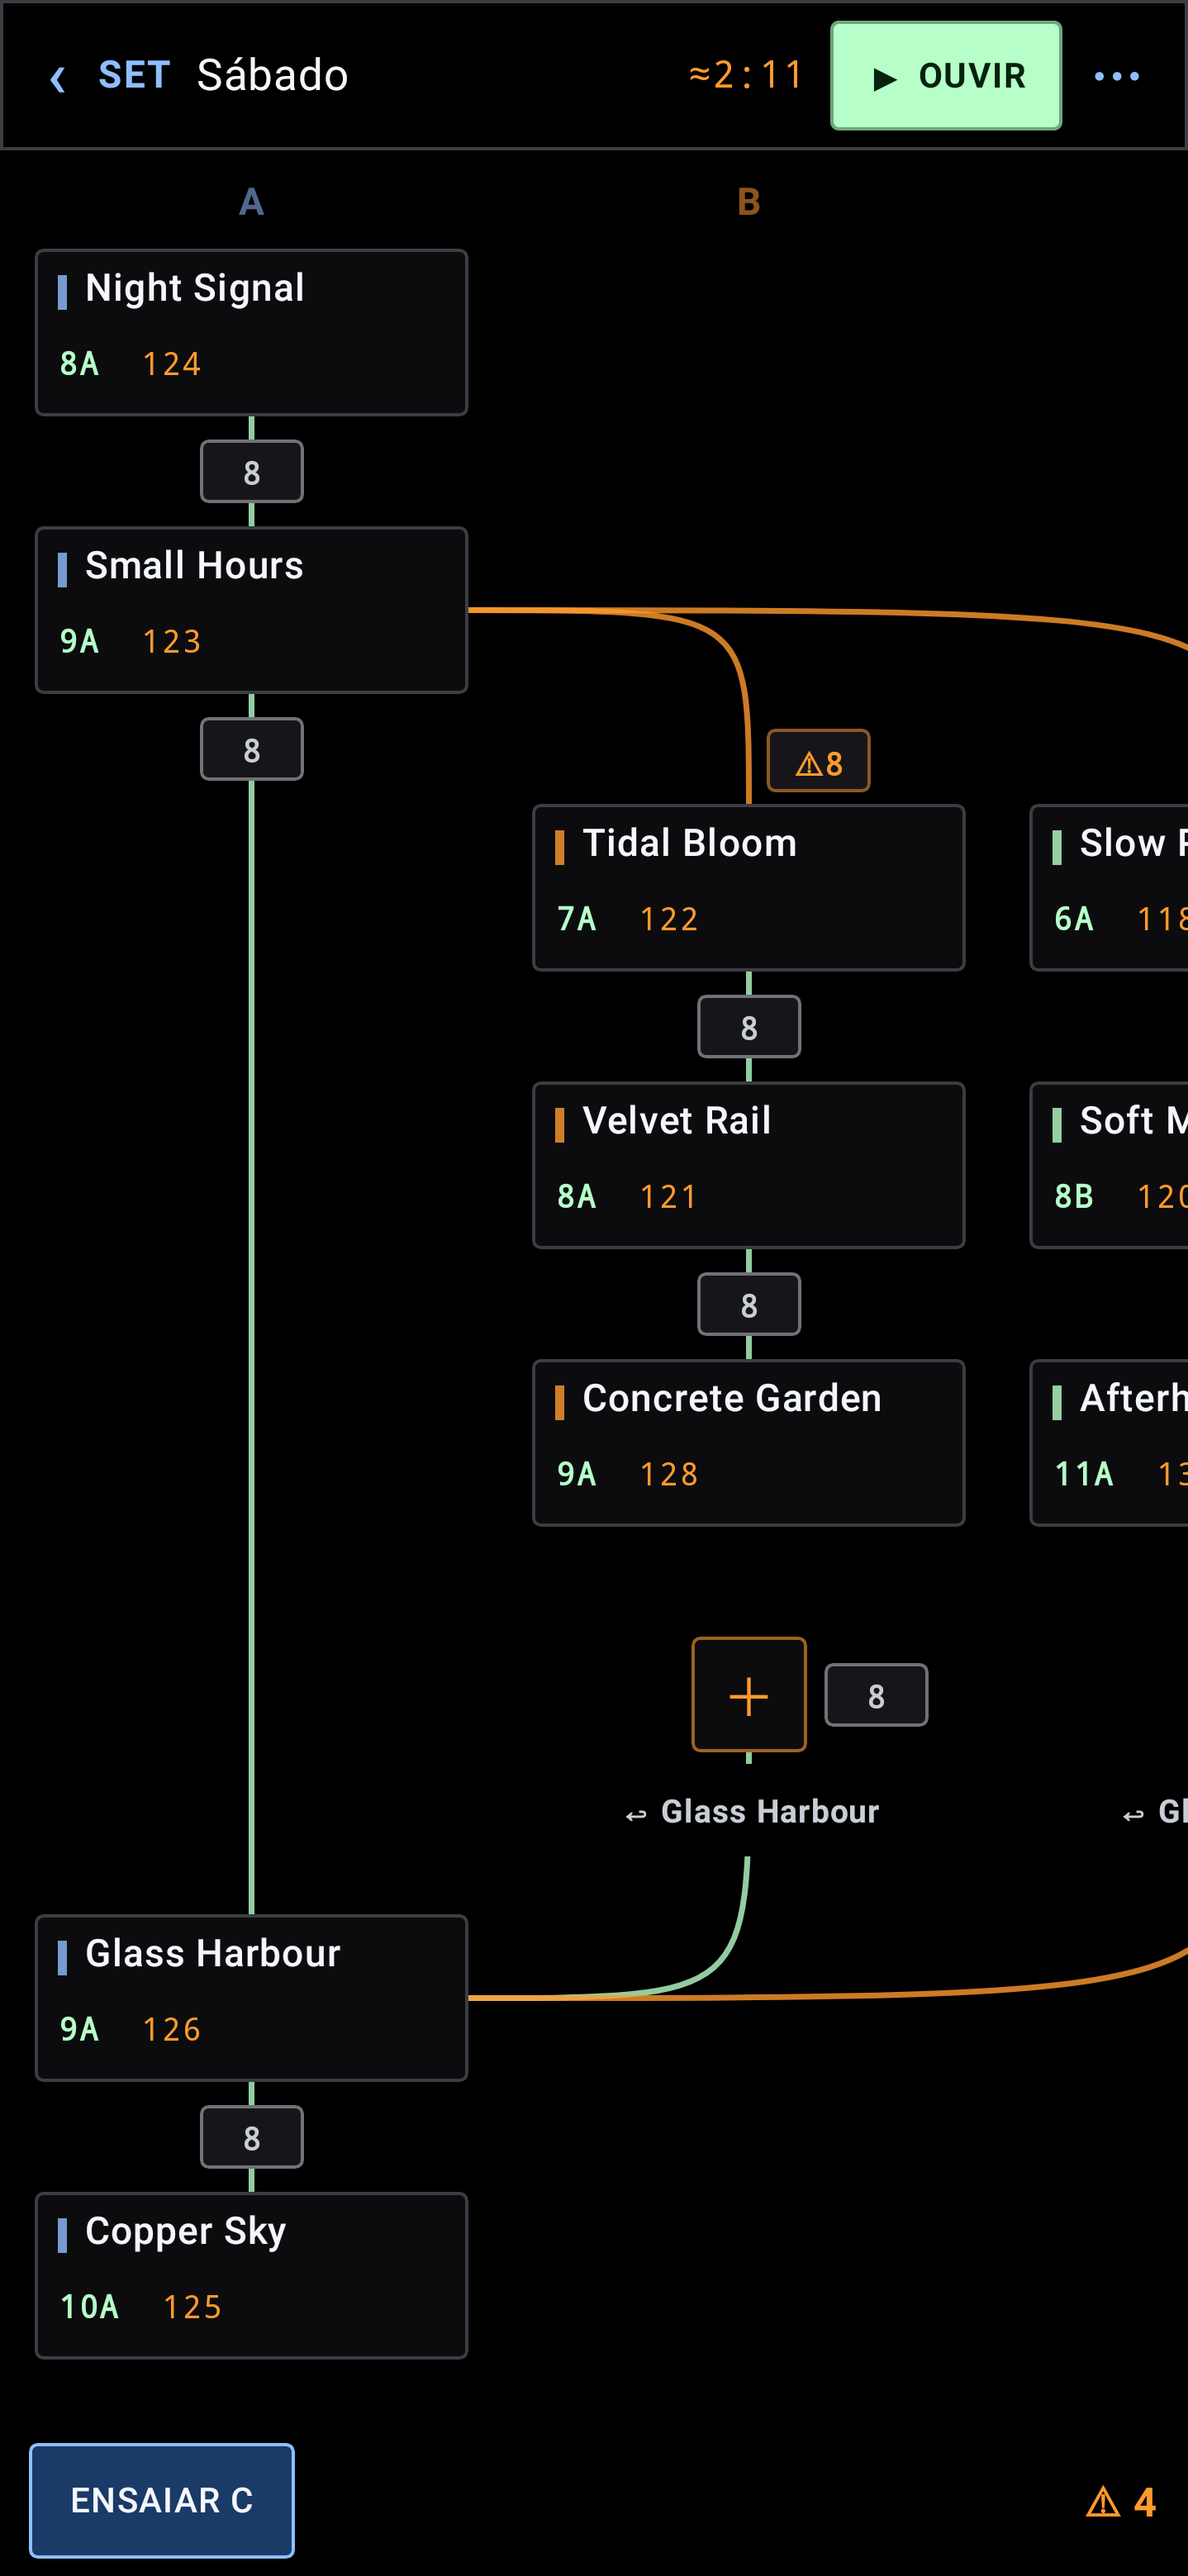
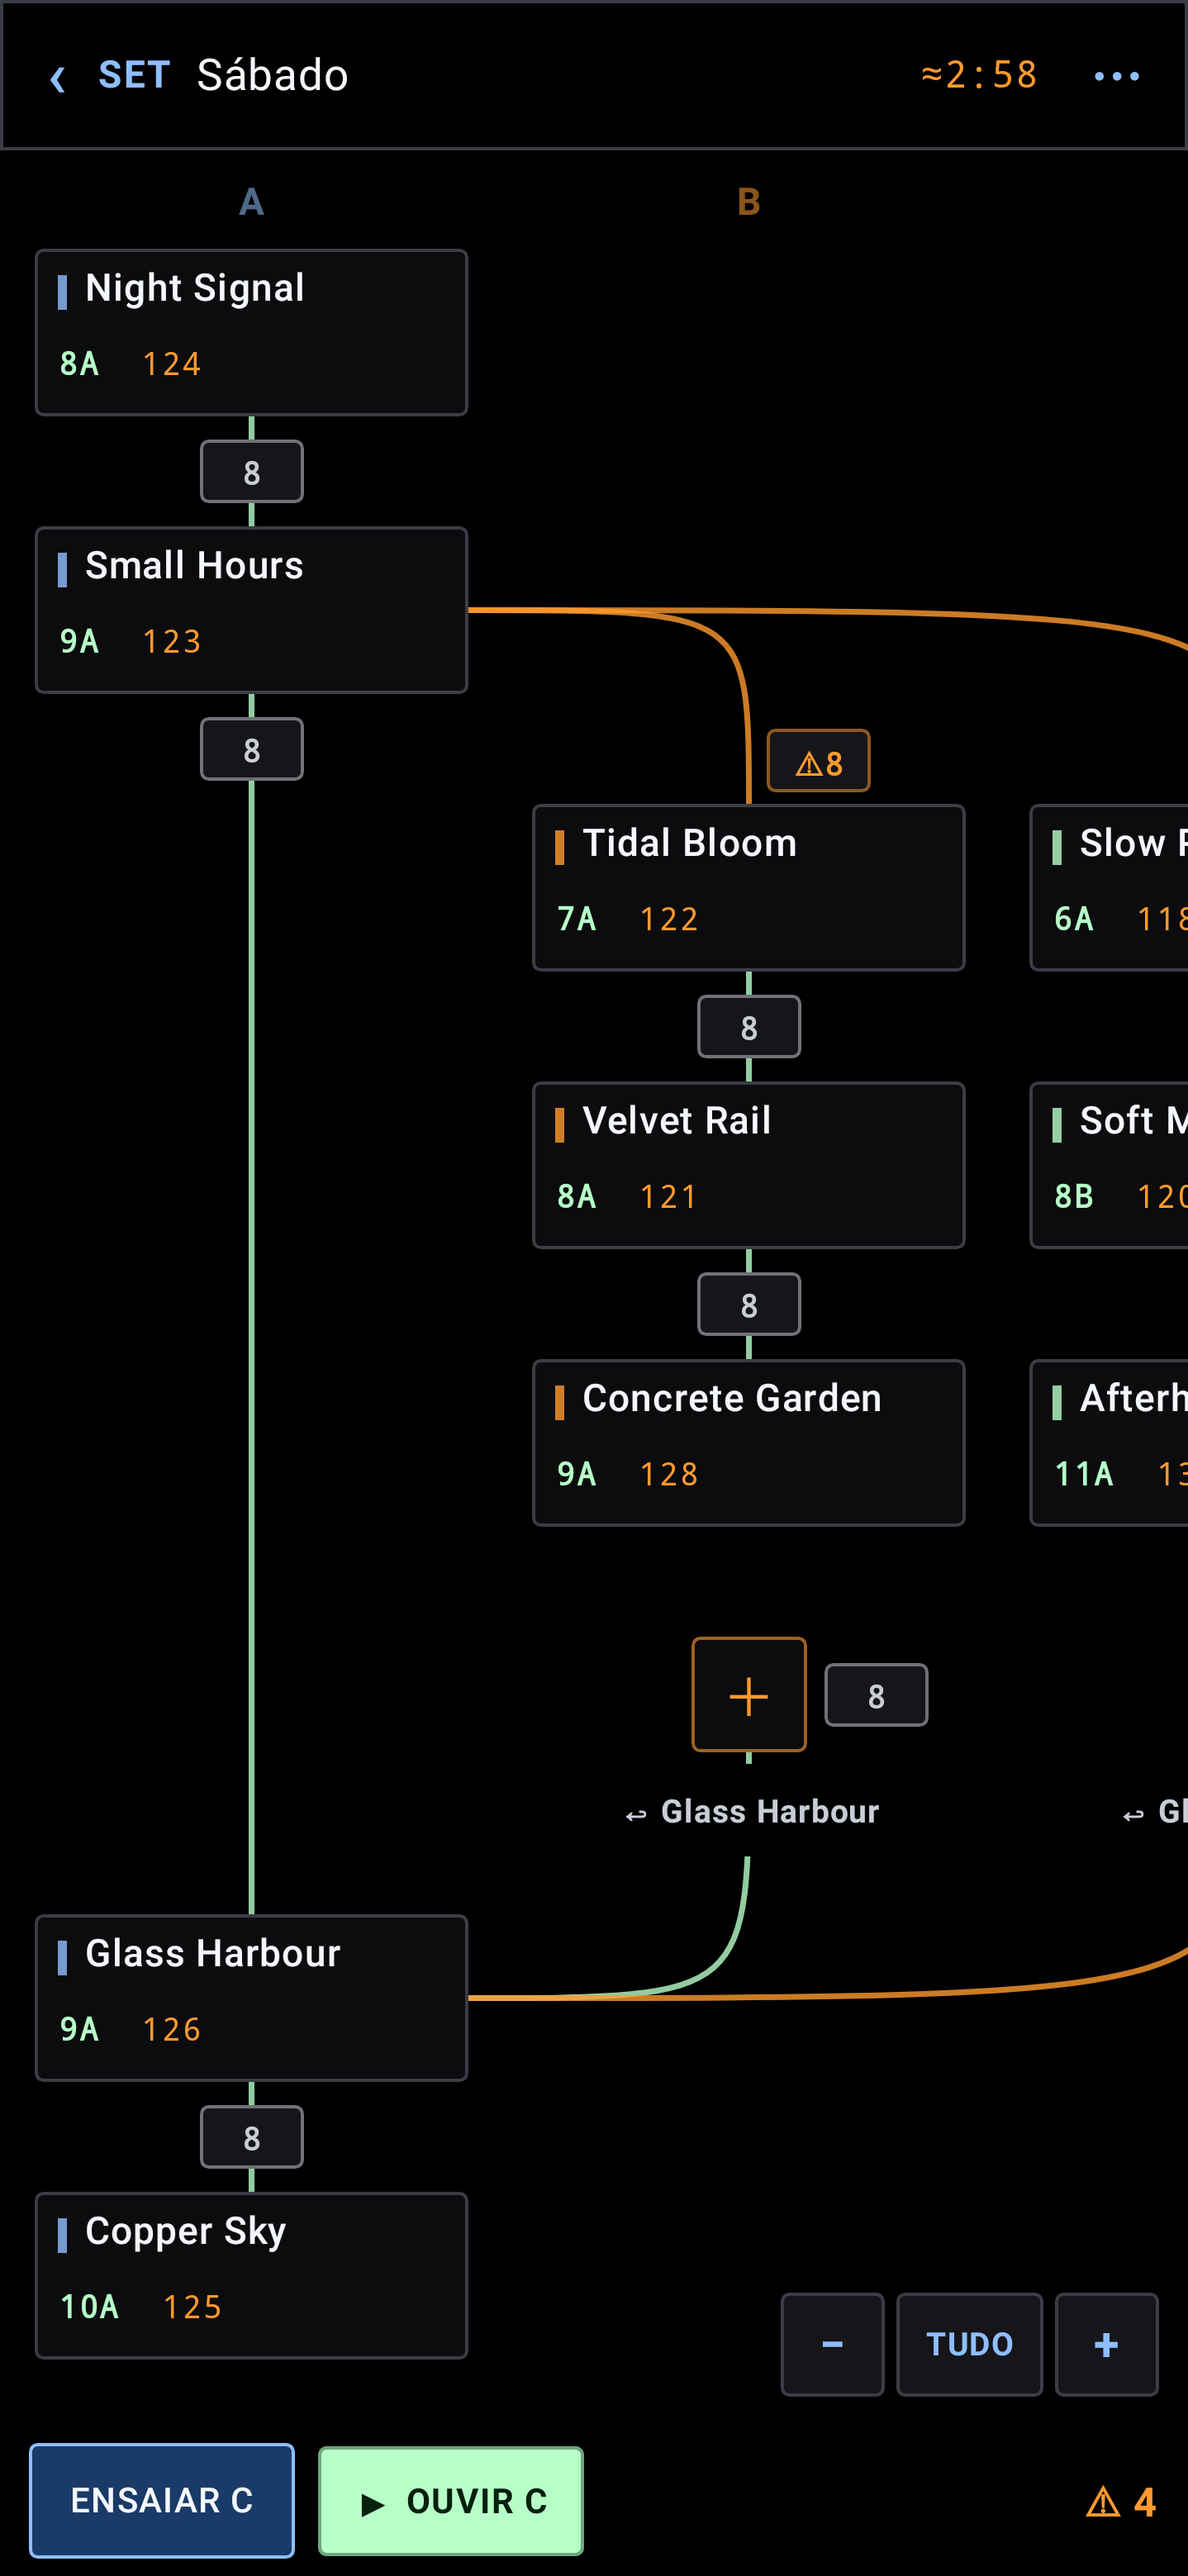
Versão 0.14.0, capturas da rodada de UX
Claude-Session: https://claude.ai/code/session_01Sb59H5wbN2UPN3Jxgrj5kb

Changed region(s): [[0.6426, 0.8711, 0.9791, 0.9333], [0.2448, 0.9333, 0.4896, 0.9955], [0.6732, 0.0, 0.9179, 0.0622]]

diff --git a/docs/runbooks/implementation-log.md b/docs/runbooks/implementation-log.md
@@ -1137,3 +1137,4 @@ O equipamento físico fica para o fim. Simulação não foi montada (T075–T077
 - Kivetz et al. 2006 (gradiente de objetivo): "faltam N" nas três últimas da triagem.
 - Kahneman et al. 1993 (pico-fim): triagem termina num resumo com PRONTO; ensaio termina num resumo com "REFAZER A PRIMEIRA".
 - Testes ajustados ao fim novo (triagem e ensaio) e vídeos (laço até o resumo).
+- Celular completo 68 (3 pulados, 0 falhas), computador 8 (2 pulados). Versão 0.14.0.
